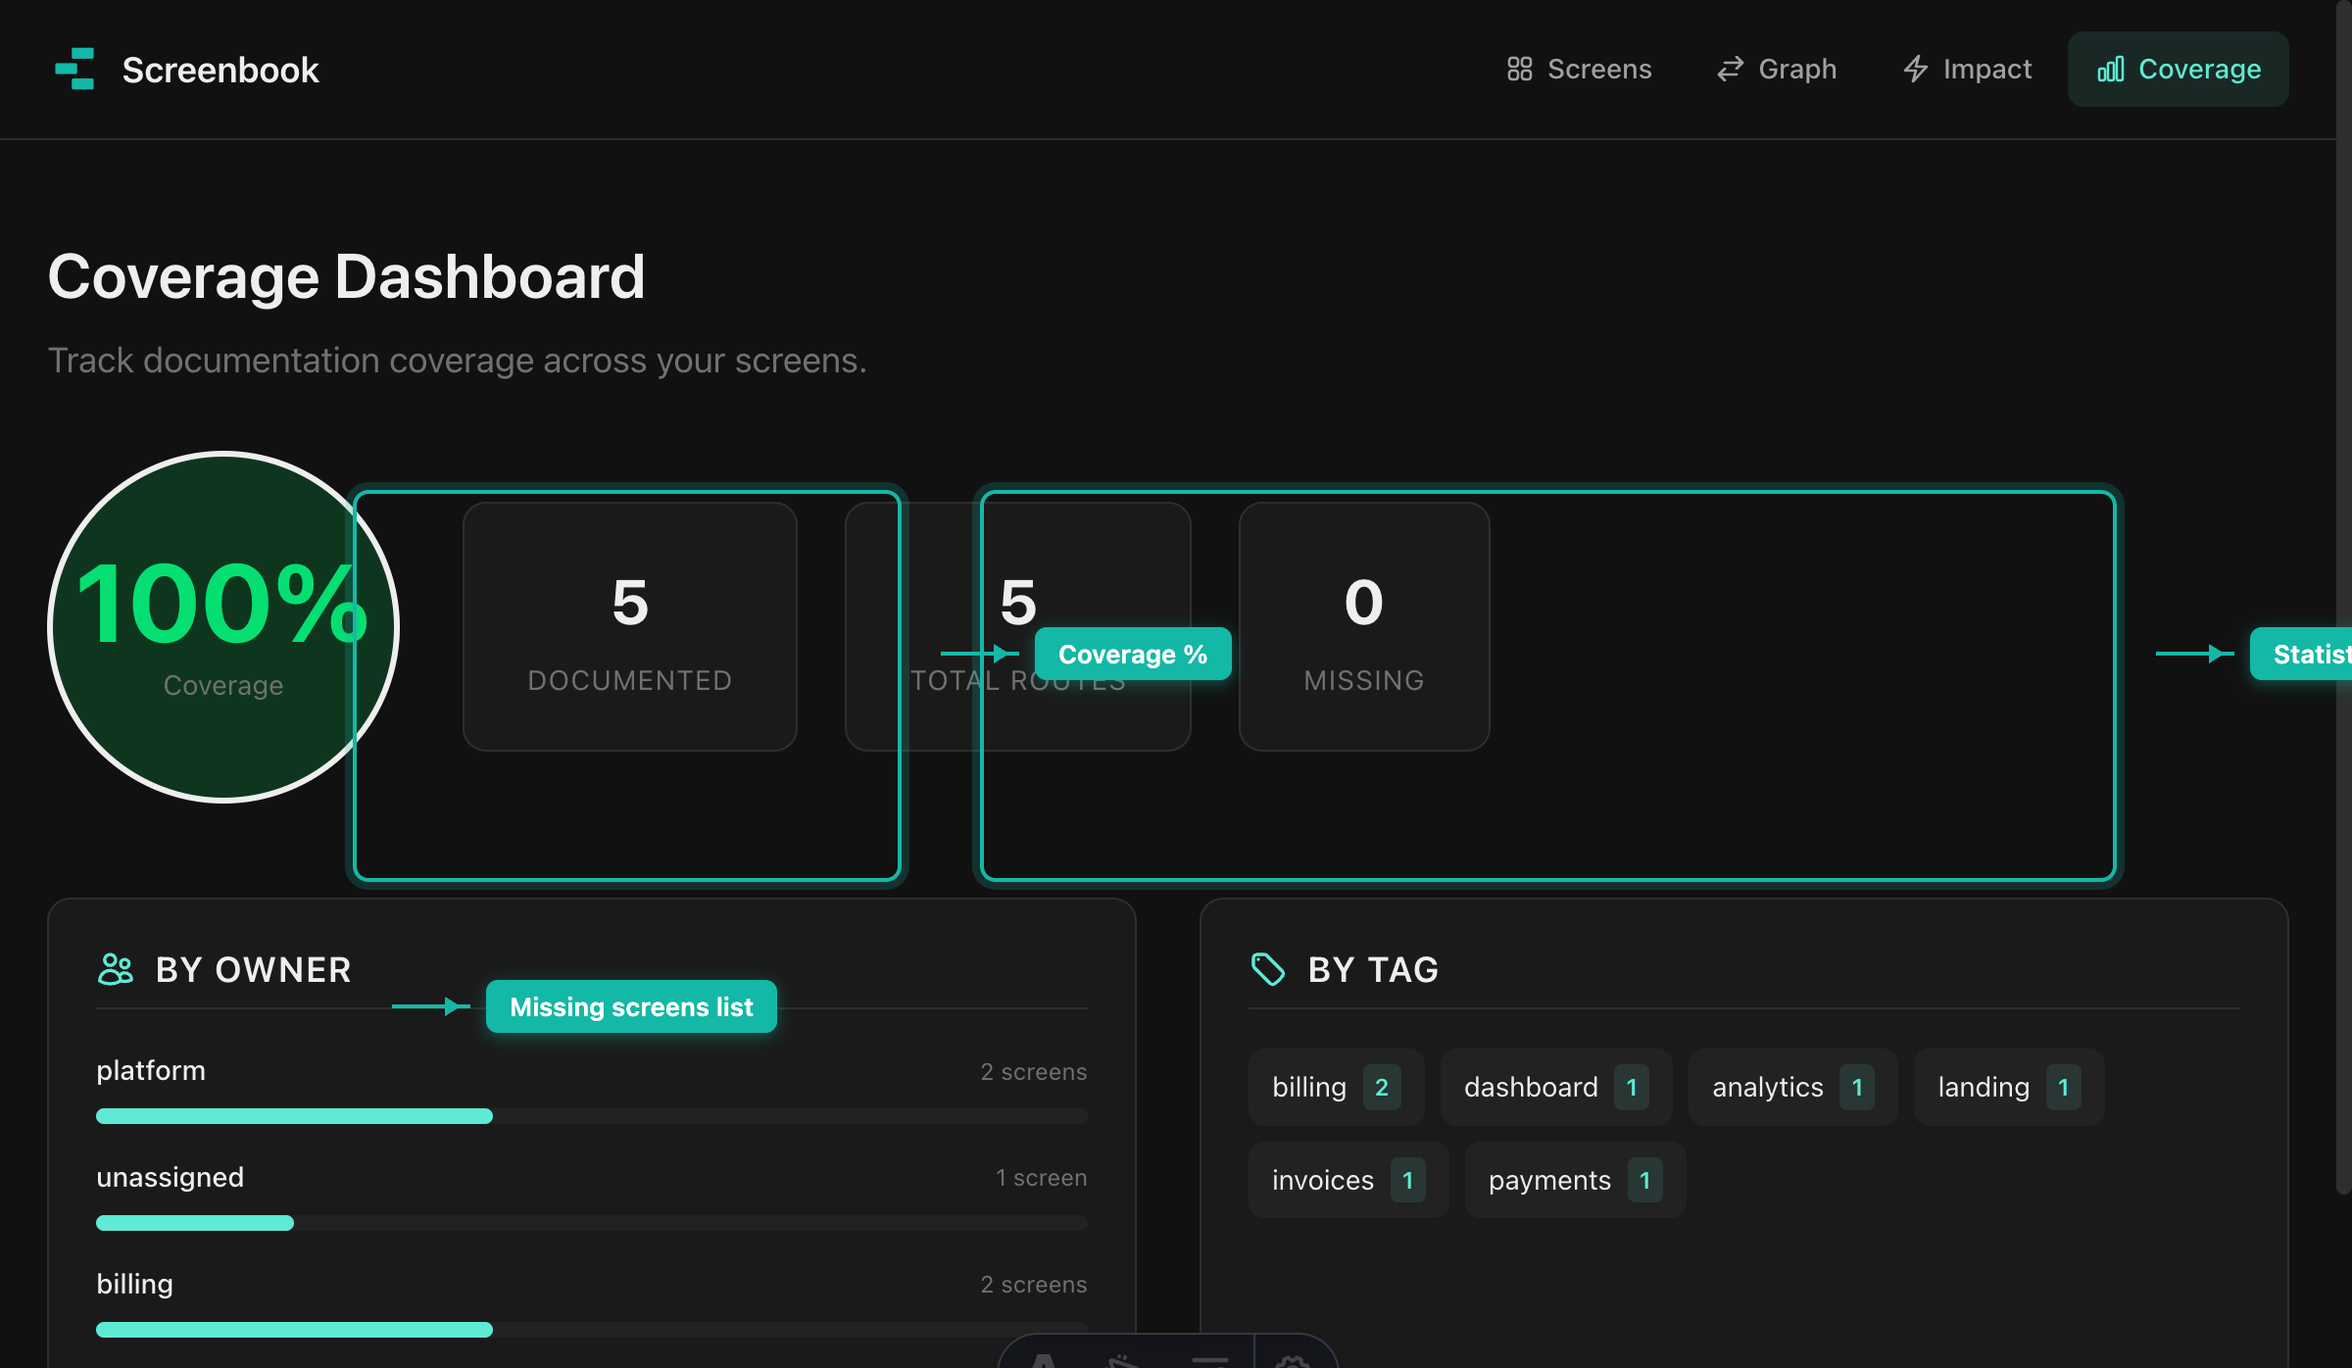
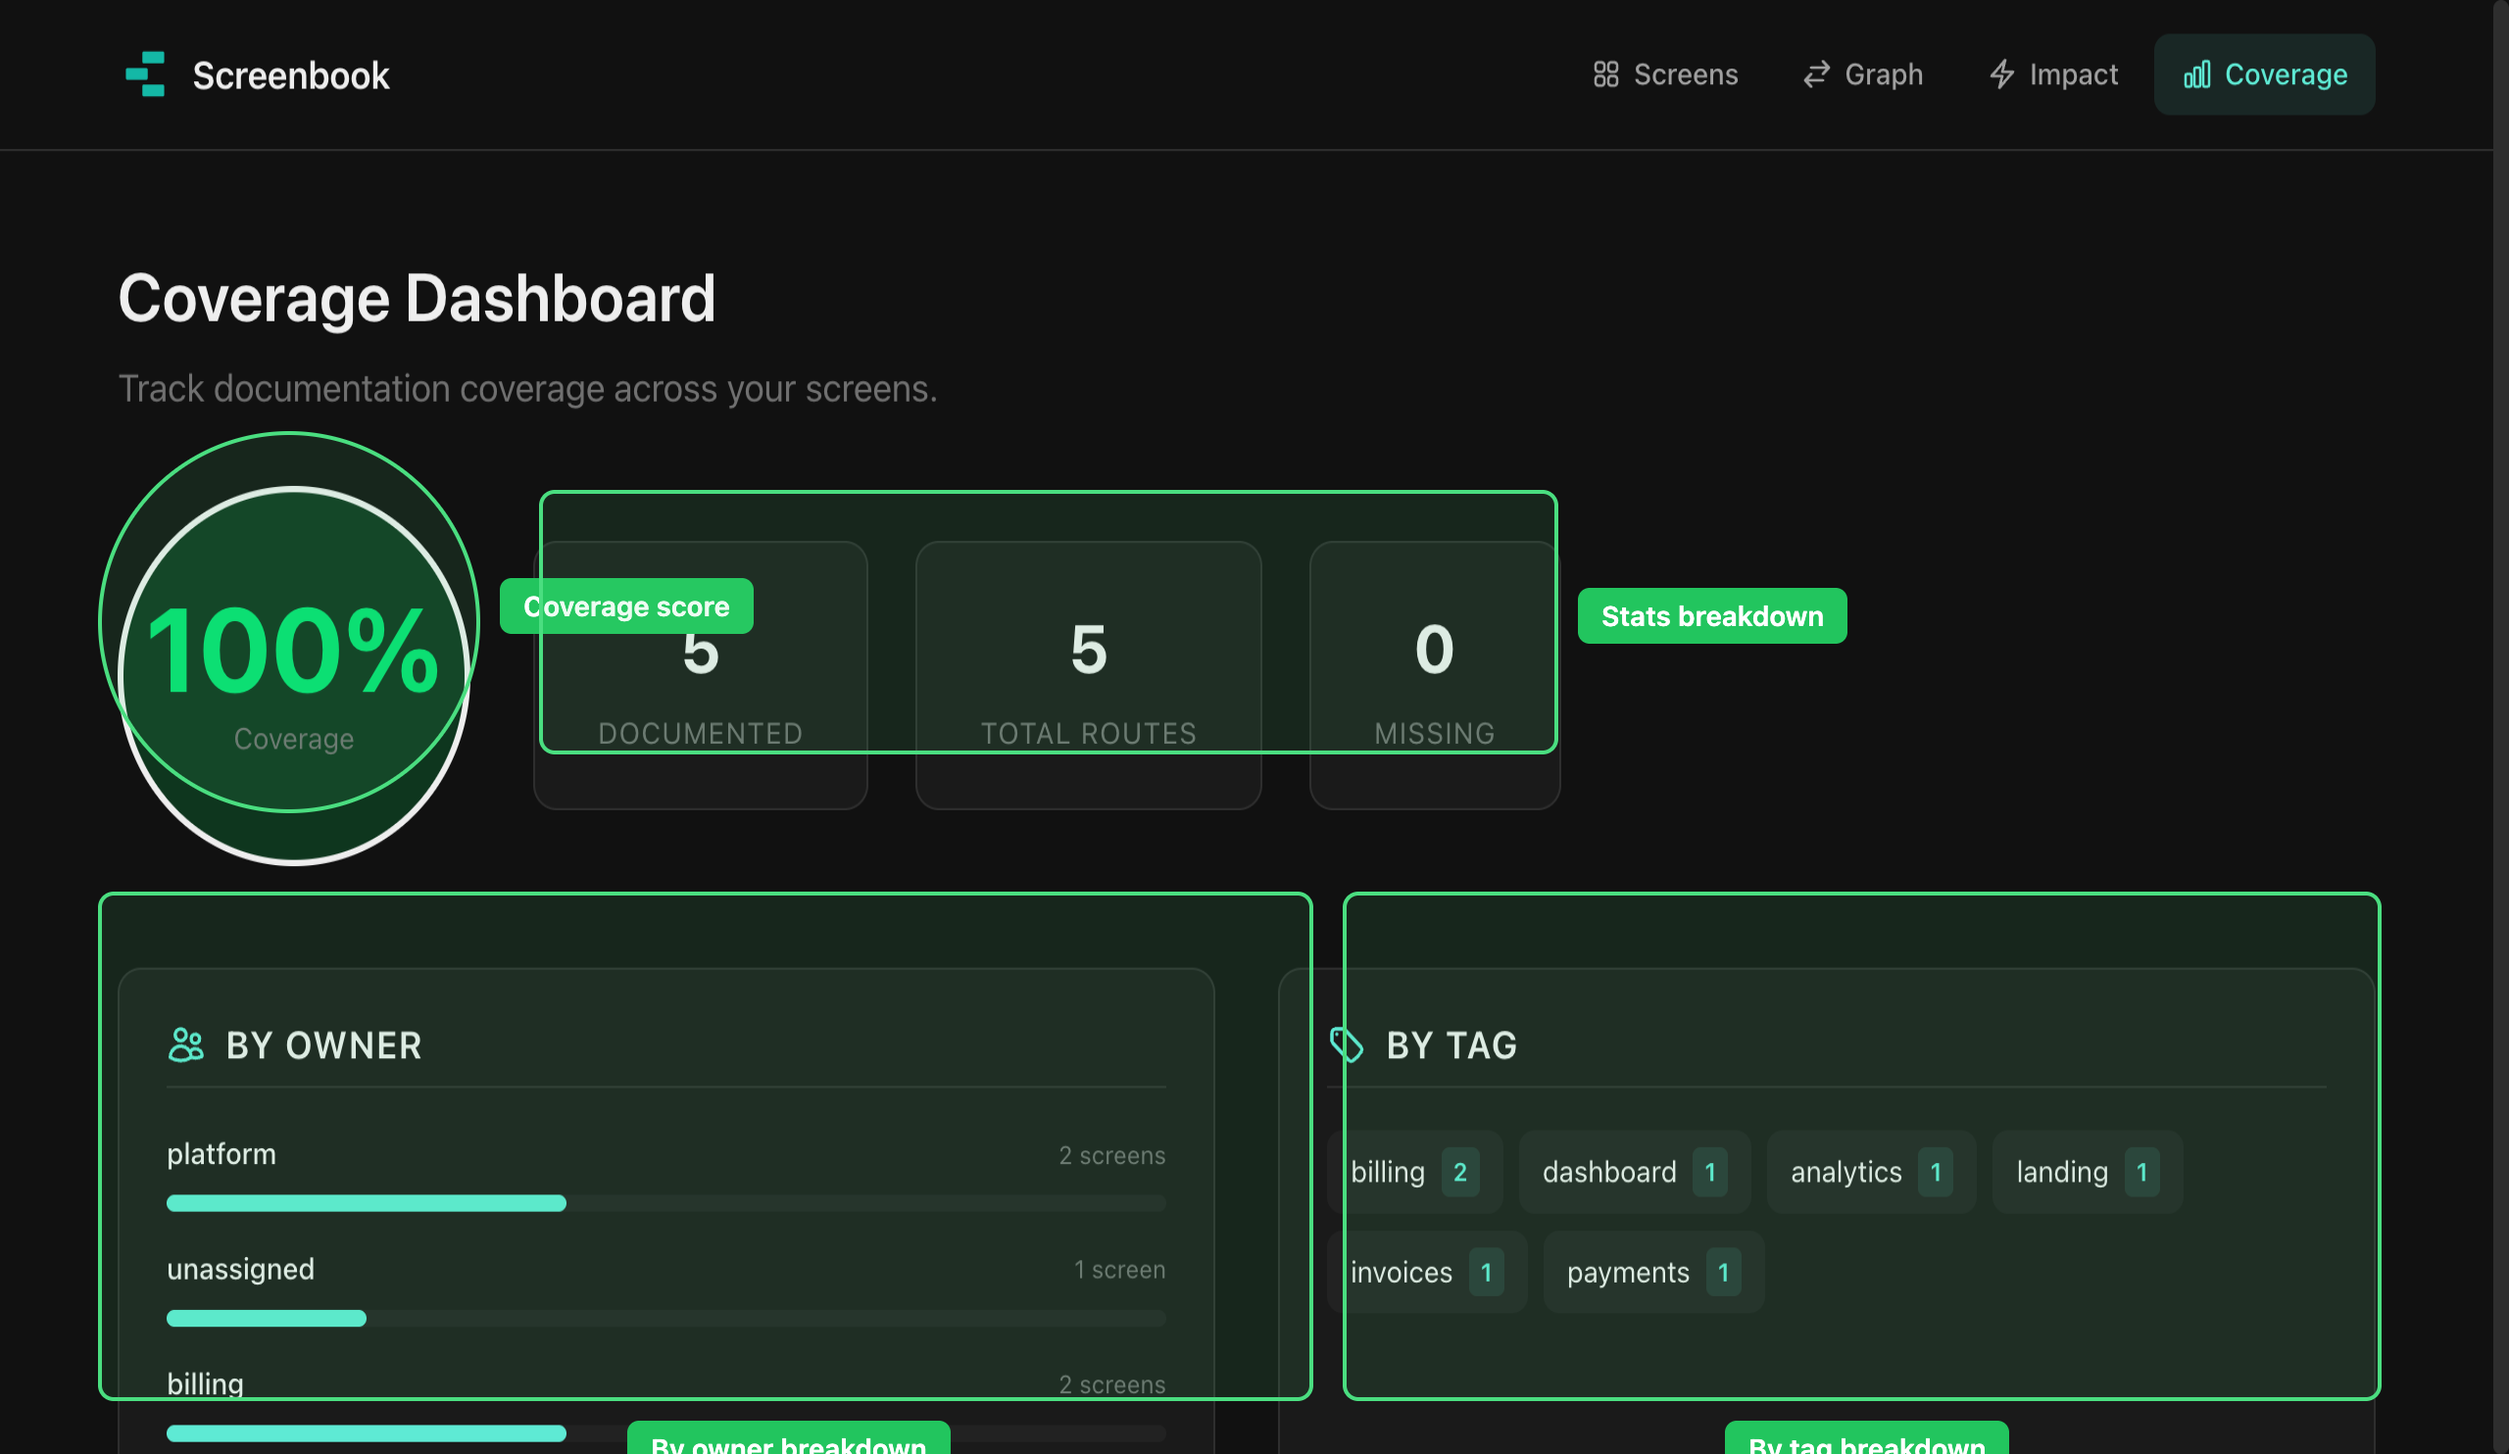
docs: add hero image and fix screenshot annotations
- Add attractive hero image showing code → catalog transformation
- Fix annotation alignment on Graph, Impact, Coverage screenshots
- Update README to use hero image instead of screens.png at top

diff --git a/README.md b/README.md
@@ -1,15 +1,11 @@
 <p align="center">
-  <img src="assets/logo/icon.svg" alt="Screenbook" width="80" height="80">
+  <img src="assets/screenshots/hero.png" alt="Screenbook - Define screens in code, get an always-up-to-date catalog" width="800">
 </p>
 
 <h1 align="center">Screenbook</h1>
 
 <p align="center">
   <strong>Your screen map is out of date. Again.</strong>
-</p>
-
-<p align="center">
-  <img src="assets/screenshots/screens.png" alt="Screenbook - Screen Catalog" width="700">
 </p>
 
 ## The Problem
